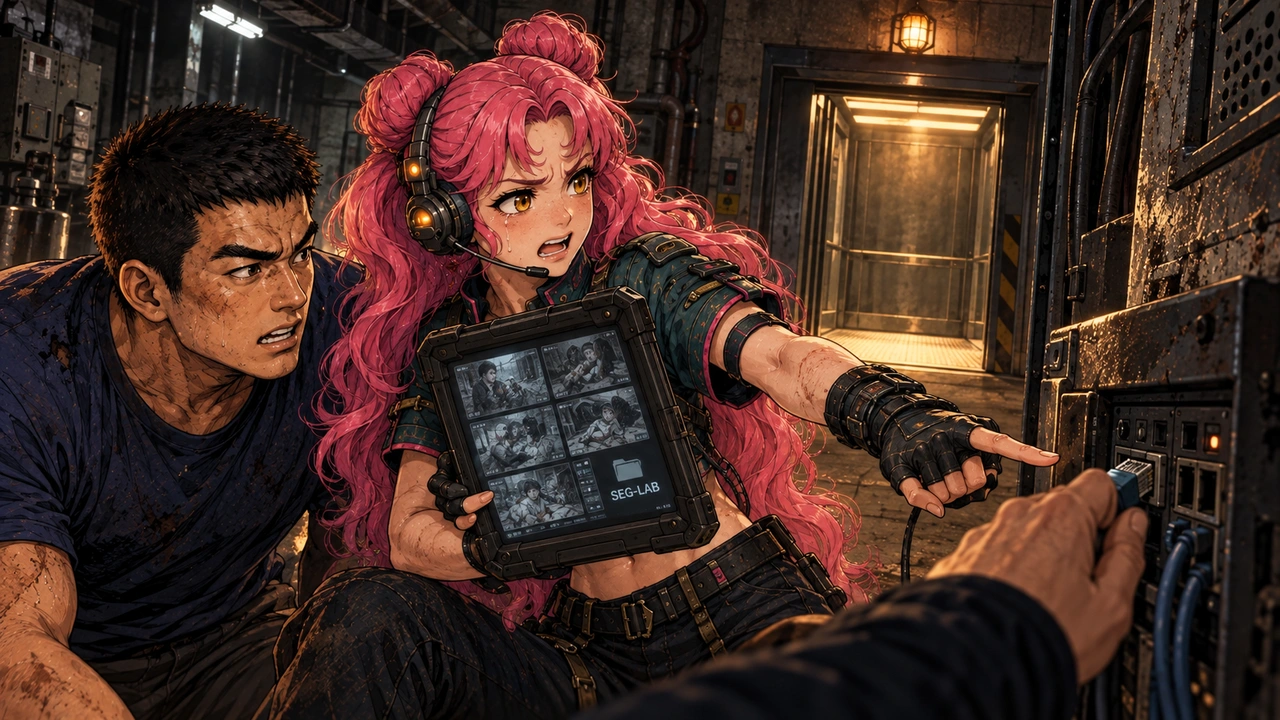
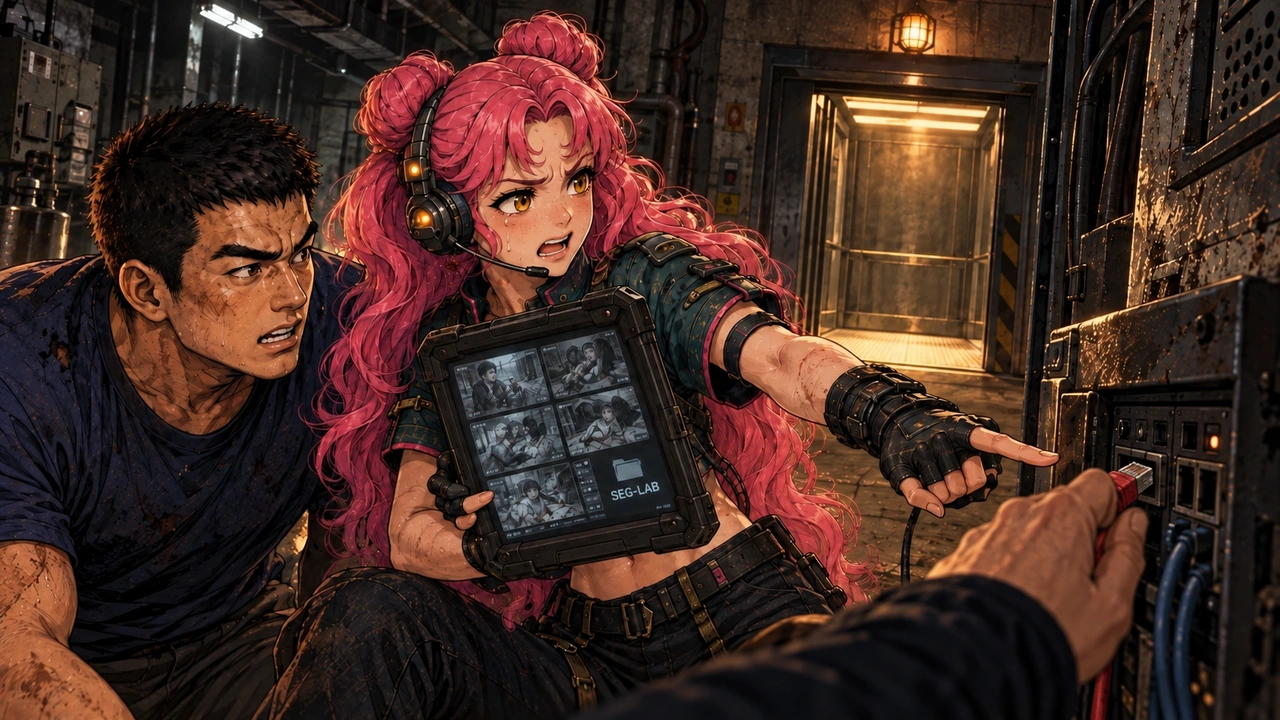
Reveal six R9 scene actions above dialogue and match the red cable

diff --git a/app/v100Campaign.css b/app/v100Campaign.css
@@ -1403,6 +1403,15 @@
 .v100-event-backdrop[data-v100-background="/art/v100/story-r9/cuts/s28-physical-stop.webp"] { background-position: center top; }
 .v100-event-image[src="/art/v100/story-r9/cuts/s28-physical-stop.webp"] { object-position: center top; }
 .v100-event-image-arriving { animation: v100-event-dissolve .65s ease both; }
+.v177-story-detail-shot { position:absolute; z-index:1; left:3.5%; bottom:150px; width:clamp(180px,30vw,380px); height:clamp(88px,28vh,190px); margin:0; overflow:hidden; border:1px solid #9e8050; border-radius:4px; background:#111b1e; box-shadow:0 6px 18px #000b; pointer-events:none; }
+.v177-story-detail-shot[data-side="right"] { right:3.5%; left:auto; }
+.v177-story-detail-shot > svg { display:block; width:100%; height:100%; overflow:hidden; pointer-events:none; }
+.v177-story-detail-arriving { animation:v100-event-dissolve .65s ease both; }
+.v177-story-detail-previous { animation:v177-story-detail-leave .65s ease forwards; }
+@keyframes v177-story-detail-leave { from { opacity:1; } to { opacity:0; } }
+@media (prefers-reduced-motion:reduce) { .v177-story-detail-arriving { animation:none; } .v177-story-detail-previous { display:none; } }
+.v100-shell[data-v100-reduced-motion="true"] .v177-story-detail-arriving { animation:none; }
+.v100-shell[data-v100-reduced-motion="true"] .v177-story-detail-previous { display:none; }
 .v100-event-backdrop[data-v100-cinematic="true"] { filter: brightness(.86) saturate(.92); }
 .v100-event-layout .v100-event-backdrop { transition: filter .65s ease; }
 .v100-event-layout[data-v100-transition="scene-crossfade"] .v100-event-backdrop:not([data-v100-cinematic="true"]) { filter: brightness(.7) saturate(.9); }

diff --git a/app/V100EventBackdrop.tsx b/app/V100EventBackdrop.tsx
@@ -1,5 +1,6 @@
 "use client";
 import {useEffect,useRef,useState} from "react";
+import {V177StoryDetailShot} from './V177StoryDetailShot';
 
 // Decode before switching. The prior image stays visible during the dissolve;
 // a dialogue advance within one cut never restarts its camera movement.
@@ -23,5 +24,6 @@ export function V100EventBackdrop({src,description,scene,location,title=false,ci
   },[src,title,description]);
   return <div className="v100-event-backdrop" data-v100-background={layers.current} data-v100-scene={scene??undefined} data-v100-location={location??undefined} data-v100-title-card={title?"true":undefined} data-v100-cinematic={cinematic?"true":undefined} style={{backgroundImage:title?"none":`url(${layers.current})`}}>
     {!title && <>{layers.previous && <img className="v100-event-image v100-event-image-previous" src={layers.previous} alt="" aria-hidden="true"/>}<img key={layers.current} className={`v100-event-image ${layers.previous?"v100-event-image-arriving":""}`} src={layers.current} alt={layers.description??""} aria-hidden={layers.description?undefined:true} decoding="async"/></>}
+    {!title&&<>{layers.previous&&<V177StoryDetailShot key={'previous:'+layers.previous} src={layers.previous} previous/>}<V177StoryDetailShot key={'current:'+layers.current} src={layers.current} arriving={Boolean(layers.previous)}/></>}
   </div>;
 }

diff --git a/app/v177StoryDetailShots.js b/app/v177StoryDetailShots.js
@@ -1,0 +1,15 @@
+const shots={
+  's01-nao-rescue':{rect:[610,365,570,310],side:'left',alt:'ナオの手と、毛布で覆われた老人の顔。'},
+  's09-transfer-disconnect':{rect:[850,400,400,220],side:'right',alt:'いくらが指す接続口と、抜いた赤いケーブルの端子。'},
+  's14-train-couplers':{rect:[340,340,930,350],side:'right',alt:'両手で握る赤い連結解除レバー。隣の青いブレーキ管は残っている。'},
+  's23-chiha-evidence-send':{rect:[350,400,510,230],side:'left',alt:'三つの受信灯と、煙を上げる認証カード。'},
+  'ending-chiha-baba-distance':{rect:[200,375,660,240],side:'left',alt:'チハが伸ばす手と、少し引かれたババヤガの手の間。'},
+  'ending-plates-and-karaage':{rect:[700,535,420,185],side:'left',alt:'食卓の下で横になり、寝返りを打つマヨ。'},
+};
+export const V177_STORY_DETAIL_SHOTS=Object.freeze(Object.fromEntries(Object.entries(shots).map(([id,shot])=>[id,Object.freeze({...shot,id,rect:Object.freeze(shot.rect)})])));
+
+export function v177StoryDetailShotFor(src){
+  if(typeof src!=='string')return null;
+  const pathname=src.split(/[?#]/u)[0];
+  return Object.values(V177_STORY_DETAIL_SHOTS).find(shot=>pathname.endsWith(`/art/v100/story-r9/cuts/${shot.id}.webp`))??null;
+}

diff --git a/app/V177StoryDetailShot.tsx b/app/V177StoryDetailShot.tsx
@@ -1,0 +1,15 @@
+import {useId} from 'react';
+import {v177StoryDetailShotFor} from './v177StoryDetailShots.js';
+
+export function V177StoryDetailShot({src,previous=false,arriving=false}:{src:string;previous?:boolean;arriving?:boolean}){
+  const clipId='v177-story-detail-'+useId().replace(/[^a-z0-9_-]/giu,'');
+  const shot=v177StoryDetailShotFor(src);
+  if(!shot)return null;
+  const [x,y,width,height]=shot.rect;
+  return <figure className={'v177-story-detail-shot'+(previous?' v177-story-detail-previous':arriving?' v177-story-detail-arriving':'')} data-v177-story-detail={shot.id} data-side={shot.side} role="img" aria-label={shot.alt} aria-hidden={previous||undefined}>
+    <svg viewBox={shot.rect.join(' ')} preserveAspectRatio="xMidYMid meet" aria-hidden="true" focusable="false">
+      <defs><clipPath id={clipId} clipPathUnits="userSpaceOnUse"><rect x={x} y={y} width={width} height={height}/></clipPath></defs>
+      <image href={src} x="0" y="0" width="1280" height="720" clipPath={`url(#${clipId})`}/>
+    </svg>
+  </figure>;
+}

diff --git a/app/v100R9SceneAssets.js b/app/v100R9SceneAssets.js
@@ -22,7 +22,7 @@ export const V100_R9_SCENE_ASSETS=Object.freeze({
   },
   "s09-transfer-disconnect": {
     "path": "/art/v100/story-r9/cuts/s09-transfer-disconnect.webp",
-    "alt": "いくらの指示したケーブルを抜く。救助映像の送信履歴は端末に残っている。"
+    "alt": "いくらが指した赤いケーブルの端子を接続口から抜く。救助映像の送信履歴は端末に残っている。"
   },
   "s11-oxygen-rescue": {
     "path": "/art/v100/story-r9/cuts/s11-oxygen-rescue.webp",
